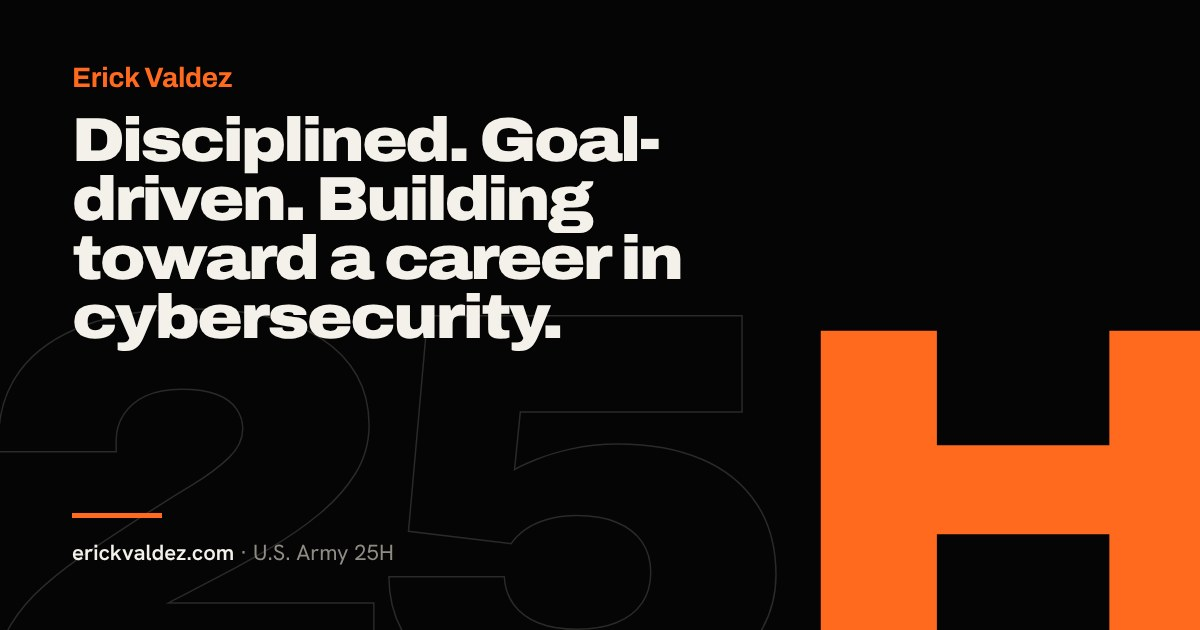
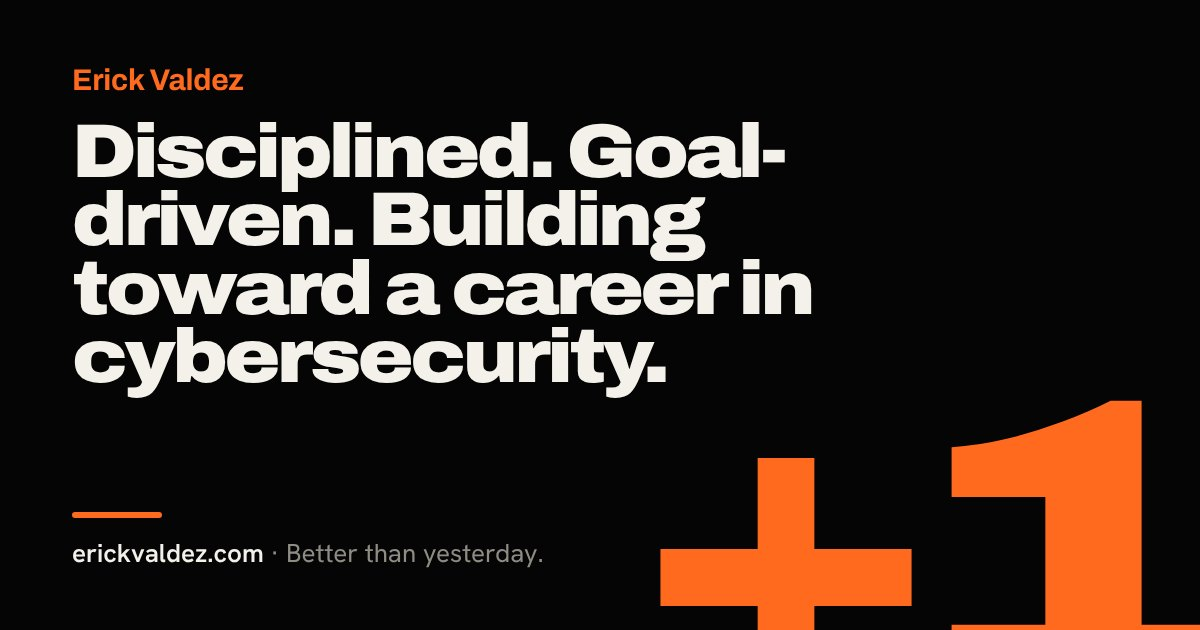
Hero: replace 25H with +1 (Better than yesterday); matching link-preview image; fix nav label spacing
Claude-Session: https://claude.ai/code/session_019L9vxt8RCbRiC8vMSpANF7

diff --git a/index.html b/index.html
@@ -17,13 +17,13 @@
 <meta property="og:description" content="Erick Valdez: U.S. Army network communications specialist with an active Secret clearance, pursuing a B.S. in Cybersecurity Technology and CompTIA Security+.">
 <meta property="og:url" content="https://erickvaldez.com/">
 <meta property="og:image" content="https://erickvaldez.com/og-image.jpg">
-<meta property="og:image:alt" content="Erick Valdez: Disciplined. Goal-driven. Building toward a career in cybersecurity.">
+<meta property="og:image:alt" content="Erick Valdez: Disciplined. Goal-driven. Building toward a career in cybersecurity. +1, better than yesterday.">
 <meta name="twitter:card" content="summary_large_image">
 <link rel="canonical" href="https://erickvaldez.com/">
 <link rel="preload" href="/fonts/archivo.woff2" as="font" type="font/woff2" crossorigin>
 <link rel="preload" href="/fonts/hanken-grotesk.woff2" as="font" type="font/woff2" crossorigin>
 <link rel="stylesheet" href="/fonts/fonts.css">
-<link rel="stylesheet" href="/site.css?v=9">
+<link rel="stylesheet" href="/site.css?v=10">
 <style>
 /* ---------- about: lopsided, motto-led ---------- */
 .about { background: var(--ink); padding-block: 40px 120px; }
@@ -66,7 +66,7 @@
     <a class="name" href="#top">Erick Valdez</a>
     <nav aria-label="Sections"><a href="#short">Overview</a><a href="#service">Service</a><a href="#packet">Projects</a><a href="#contact">Contact</a></nav>
     <a class="about-pill" href="#about">About</a>
-    <a class="play" href="/games"><span class="dot" aria-hidden="true"></span>Play<span class="pl-x"> the games</span></a>
+    <a class="play" href="/games"><span class="dot" aria-hidden="true"></span><span>Play<span class="pl-x"> the games</span></span></a>
   </div>
 </header>
 
@@ -75,8 +75,9 @@
     <div class="hero-pin gutter">
       <div class="hero-copy max" style="width:100%">
         <h1>Disciplined. Goal-driven. Building toward a career in cybersecurity.</h1>
+        <p class="hero-tag"><b>+1</b> Better than yesterday.</p>
       </div>
-      <div class="hero-num" aria-hidden="true">25H<span class="fill"><span class="fill-in">25H</span></span></div>
+      <div class="hero-num plus-one" aria-hidden="true">+1<span class="fill"><span class="fill-in">+1</span></span></div>
       <div class="hero-path" aria-hidden="true"><div class="hero-path-in"><svg viewBox="0 0 1600 140" preserveAspectRatio="none">
         <path d="M0 110 C 260 110, 300 30, 560 40 S 900 120, 1120 70 S 1420 20, 1600 30" fill="none" stroke="#ff6a1f" stroke-width="2" vector-effect="non-scaling-stroke"/>
       </svg></div></div>

diff --git a/games.html b/games.html
@@ -18,13 +18,13 @@
 <meta property="og:description" content="Games by Erick Valdez: Packet Racer in Security+ and CySA+ editions, the Port Quiz, and Buddy Study for vet techs.">
 <meta property="og:url" content="https://erickvaldez.com/games">
 <meta property="og:image" content="https://erickvaldez.com/og-image.jpg">
-<meta property="og:image:alt" content="Erick Valdez: Disciplined. Goal-driven. Building toward a career in cybersecurity.">
+<meta property="og:image:alt" content="Erick Valdez: Disciplined. Goal-driven. Building toward a career in cybersecurity. +1, better than yesterday.">
 <meta name="twitter:card" content="summary_large_image">
 <link rel="canonical" href="https://erickvaldez.com/games">
 <link rel="preload" href="/fonts/archivo.woff2" as="font" type="font/woff2" crossorigin>
 <link rel="preload" href="/fonts/hanken-grotesk.woff2" as="font" type="font/woff2" crossorigin>
 <link rel="stylesheet" href="/fonts/fonts.css">
-<link rel="stylesheet" href="/site.css?v=9">
+<link rel="stylesheet" href="/site.css?v=10">
 </head>
 <body>
 <header class="lnav gutter">
@@ -33,7 +33,7 @@
     <nav aria-label="Sections"><a href="/#short">Overview</a><a href="/#service">Service</a><a href="/#packet">Projects</a><a href="/#contact">Contact</a></nav>
     <button class="theme-btn" id="theme-btn" type="button" aria-label="Switch to light mode"><svg viewBox="0 0 16 16" aria-hidden="true"><circle cx="8" cy="8" r="6.5" fill="none" stroke="currentColor" stroke-width="1.5"/><path d="M8 1.5a6.5 6.5 0 0 1 0 13z" fill="currentColor"/></svg></button>
     <a class="about-pill" href="/#about">About</a>
-    <a class="play" href="/games" aria-current="page"><span class="dot" aria-hidden="true"></span>Play<span class="pl-x"> the games</span></a>
+    <a class="play" href="/games" aria-current="page"><span class="dot" aria-hidden="true"></span><span>Play<span class="pl-x"> the games</span></span></a>
   </div>
 </header>
 

diff --git a/security.html b/security.html
@@ -17,13 +17,13 @@
 <meta property="og:description" content="How Erick Valdez audited and secured his own website and domain.">
 <meta property="og:url" content="https://erickvaldez.com/security">
 <meta property="og:image" content="https://erickvaldez.com/og-image.jpg">
-<meta property="og:image:alt" content="Erick Valdez: Disciplined. Goal-driven. Building toward a career in cybersecurity.">
+<meta property="og:image:alt" content="Erick Valdez: Disciplined. Goal-driven. Building toward a career in cybersecurity. +1, better than yesterday.">
 <meta name="twitter:card" content="summary_large_image">
 <link rel="canonical" href="https://erickvaldez.com/security">
 <link rel="preload" href="/fonts/archivo.woff2" as="font" type="font/woff2" crossorigin>
 <link rel="preload" href="/fonts/hanken-grotesk.woff2" as="font" type="font/woff2" crossorigin>
 <link rel="stylesheet" href="/fonts/fonts.css">
-<link rel="stylesheet" href="/site.css?v=9">
+<link rel="stylesheet" href="/site.css?v=10">
 <style>
   .method { background: var(--ink); padding-block: 10px 100px; }
   .method .max { display: grid; grid-template-columns: repeat(3, minmax(0, 1fr)); border-top: 1px solid rgba(243,241,234,0.18); }
@@ -48,7 +48,7 @@
     <a class="name" href="/">Erick Valdez</a>
     <nav aria-label="Sections"><a href="/#short">Overview</a><a href="/#service">Service</a><a href="/#packet">Projects</a><a href="/#contact">Contact</a></nav>
     <a class="about-pill" href="/#about">About</a>
-    <a class="play" href="/games"><span class="dot" aria-hidden="true"></span>Play<span class="pl-x"> the games</span></a>
+    <a class="play" href="/games"><span class="dot" aria-hidden="true"></span><span>Play<span class="pl-x"> the games</span></span></a>
   </div>
 </header>
 

diff --git a/404.html b/404.html
@@ -13,7 +13,7 @@
 <link rel="apple-touch-icon" href="/apple-touch-icon.png">
 <link rel="preload" href="/fonts/archivo.woff2" as="font" type="font/woff2" crossorigin>
 <link rel="stylesheet" href="/fonts/fonts.css">
-<link rel="stylesheet" href="/site.css?v=9">
+<link rel="stylesheet" href="/site.css?v=10">
 <style>
   .nf { position: relative; overflow: hidden; min-height: calc(100svh - 54px); display: grid; align-content: end; padding-block: 60px 72px; }
   .nf-code { position: absolute; right: -3vw; top: 4svh; z-index: 0; pointer-events: none; font-family: var(--display); font-weight: 900; font-stretch: 125%; font-size: clamp(180px, 40vw, 560px); line-height: 0.8; letter-spacing: -0.06em; color: transparent; -webkit-text-stroke: 1.5px rgba(243,241,234,0.22); }
@@ -31,7 +31,7 @@
     <a class="name" href="/">Erick Valdez</a>
     <nav aria-label="Sections"><a href="/#short">Overview</a><a href="/#service">Service</a><a href="/#packet">Projects</a><a href="/#contact">Contact</a></nav>
     <a class="about-pill" href="/#about">About</a>
-    <a class="play" href="/games"><span class="dot" aria-hidden="true"></span>Play<span class="pl-x"> the games</span></a>
+    <a class="play" href="/games"><span class="dot" aria-hidden="true"></span><span>Play<span class="pl-x"> the games</span></span></a>
   </div>
 </header>
 <main class="nf gutter">

diff --git a/site.css b/site.css
@@ -339,3 +339,10 @@ sup a { color: var(--dim); text-decoration: none; font-size: 0.6em; margin-left:
 .stat-hero b { white-space: nowrap; }
 .stat-hero b small { font-size: 0.3em; font-stretch: 110%; letter-spacing: -0.03em; margin-left: 0.12em; color: var(--flare); }
 .stat-hero span { margin-top: 22px; }
+
+/* hero "+1": two characters, so set it larger than the old three-character mark to keep the same weight */
+.hero-num.plus-one { font-size: clamp(260px, 50vw, 760px); letter-spacing: -0.08em; right: 2vw; }
+.hero-tag { margin: 18px 0 0; font-family: var(--display); font-weight: 700; font-size: clamp(17px, 1.6vw, 22px); color: #cfccc4; letter-spacing: -0.01em; }
+.hero-tag b { color: var(--flare); font-weight: 900; margin-right: 6px; }
+.hero-copy .hero-tag { opacity: calc(1 - var(--p, 0) * 3.4); }
+@media (max-width: 760px) { .hero-num.plus-one { font-size: clamp(220px, 70vw, 520px); right: -2vw; } }
